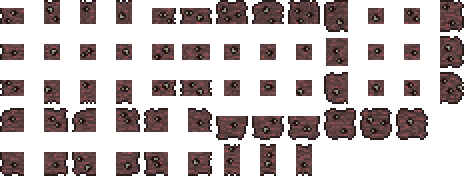
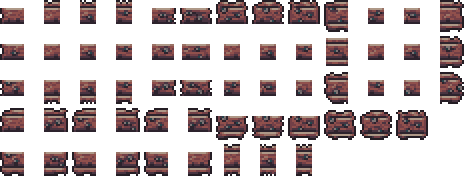
Blocks lol

diff --git a/Tiles/NullBlocks/NullifiedBrick.cs b/Tiles/NullBlocks/NullifiedBrick.cs
@@ -1,0 +1,41 @@
+using Microsoft.Xna.Framework;
+using Terraria;
+using Terraria.ID;
+using Terraria.ModLoader;
+using Terraria.ObjectData;
+
+namespace ofDarkandBelow.Tiles.NullBlocks
+{
+	public class NullifiedBrick : ModTile
+	{
+		public override void SetDefaults() {
+			Main.tileSolid[Type] = true;
+			Main.tileMergeDirt[Type] = true;
+			Main.tileMerge[Type][33] = true;
+			Main.tileMerge[Type][1] = true;
+			Main.tileMerge[Type][189] = true;
+			Main.tileBlockLight[Type] = true;
+			Main.tileLighted[Type] = true;
+			drop = mod.ItemType("NullifiedBrickItem");
+			ModTranslation name = CreateMapEntryName();
+			name.SetDefault("Nullified Brick");
+			AddMapEntry(new Color(67, 117, 106));
+			Main.tileMerge[Type][TileID.GreenDungeonBrick] = true;
+			Main.tileMerge[Type][TileID.BlueDungeonBrick] = true;
+			Main.tileMerge[Type][TileID.PinkDungeonBrick] = true;
+			minPick = 100;
+			mineResist = 1.5f;
+		}
+		public override void ModifyLight(int i, int j, ref float r, ref float g, ref float b)
+		{
+			i = 1;
+			r = 0.26f;
+			g = 0.45f;
+			b = 0.41f;
+		}
+		public override bool CanExplode(int i, int j)
+		{
+			return false;
+		}
+	}
+}
